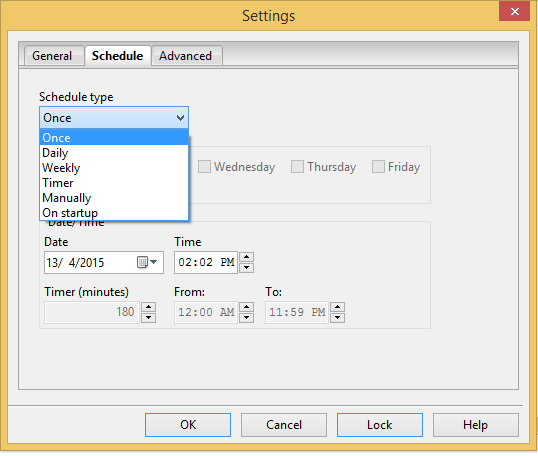
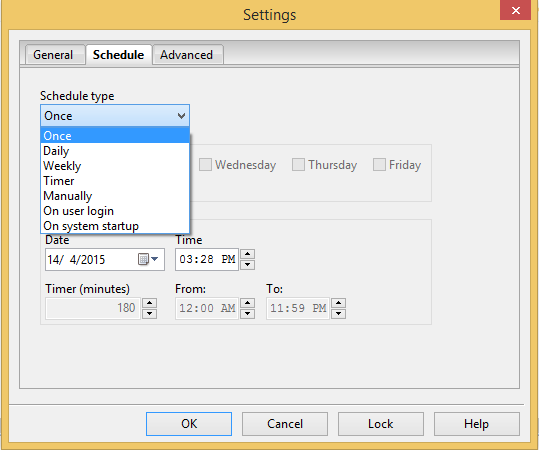
Separated "On startup" in Settings' Schedule tab into "On user login" and "On system startup", so that it's easier to explain what we can easily support on each OS.  "On system startup" requires installing MyData as a service (not yet possible, but in development).  Windows is the priority OS at the

diff --git a/SettingsDialog.py b/SettingsDialog.py
@@ -205,7 +205,7 @@ class SettingsDialog(wx.Dialog):
                                                       "Schedule type"))
 
         choices = ["Once", "Daily", "Weekly", "Timer", "Manually",
-                   "On startup"]
+                   "On user login", "On system startup"]
         self.scheduleTypeComboBox = wx.ComboBox(self.scheduleTypePanel,
                                                 choices=choices,
                                                 style=wx.CB_READONLY)

diff --git a/docs/source/settings.rst b/docs/source/settings.rst
@@ -97,17 +97,22 @@ Schedule
     the toolbar, or clicking the "MyTardis Sync" menu item in the system tray
     menu.
 
-**Schedule type - On startup**
+**Schedule type - On user login**
     On Windows, a shortcut to MyData (configured to run in --background mode)
     will be placed in the current user's Startup folder.  The exact location
     varies, but on my machine it is
     "C:\\Users\\wettenhj\\AppData\\Roaming\\Microsoft\\Windows\\Start Menu\\Programs\\Startup".
+    This is not implemented on Mac OS X yet, by a launch agent can be created
+    for MyData in the user's ~/Library/LaunchAgents/ folder.
+
+**Schedule type - On system startup**
     If MyData is installed as a service (not yet possible), then upon selecting
-    "Startup" for the Schedule Type, MyData will request administrator
-    privileges to ensure that the MyData service is configured to start up
-    automatically.  If MyData is installed as a service, then the shortcut to
-    MyData required to launch MyData's user interface will be placed in the
-    common Startup folder.  Again, the location varies, but for me it is:
+    "On system startup" for the Schedule Type, MyData will request
+    administrator privileges to ensure that the MyData service is installed
+    and configured to start up automatically.  If MyData is installed as a
+    service, then the shortcut to MyData required to launch MyData's user
+    interface will be placed in the common Startup folder.  Again, the location
+    varies, but for me it is:
     "C:\\ProgramData\\Microsoft\\Windows\\Start Menu\\Programs\\Startup".
     In the case where MyData runs as a service, MyData's settings will be
     saved in a central location (e.g. "C:\\ProgramData\\Monash\\MyData" or
